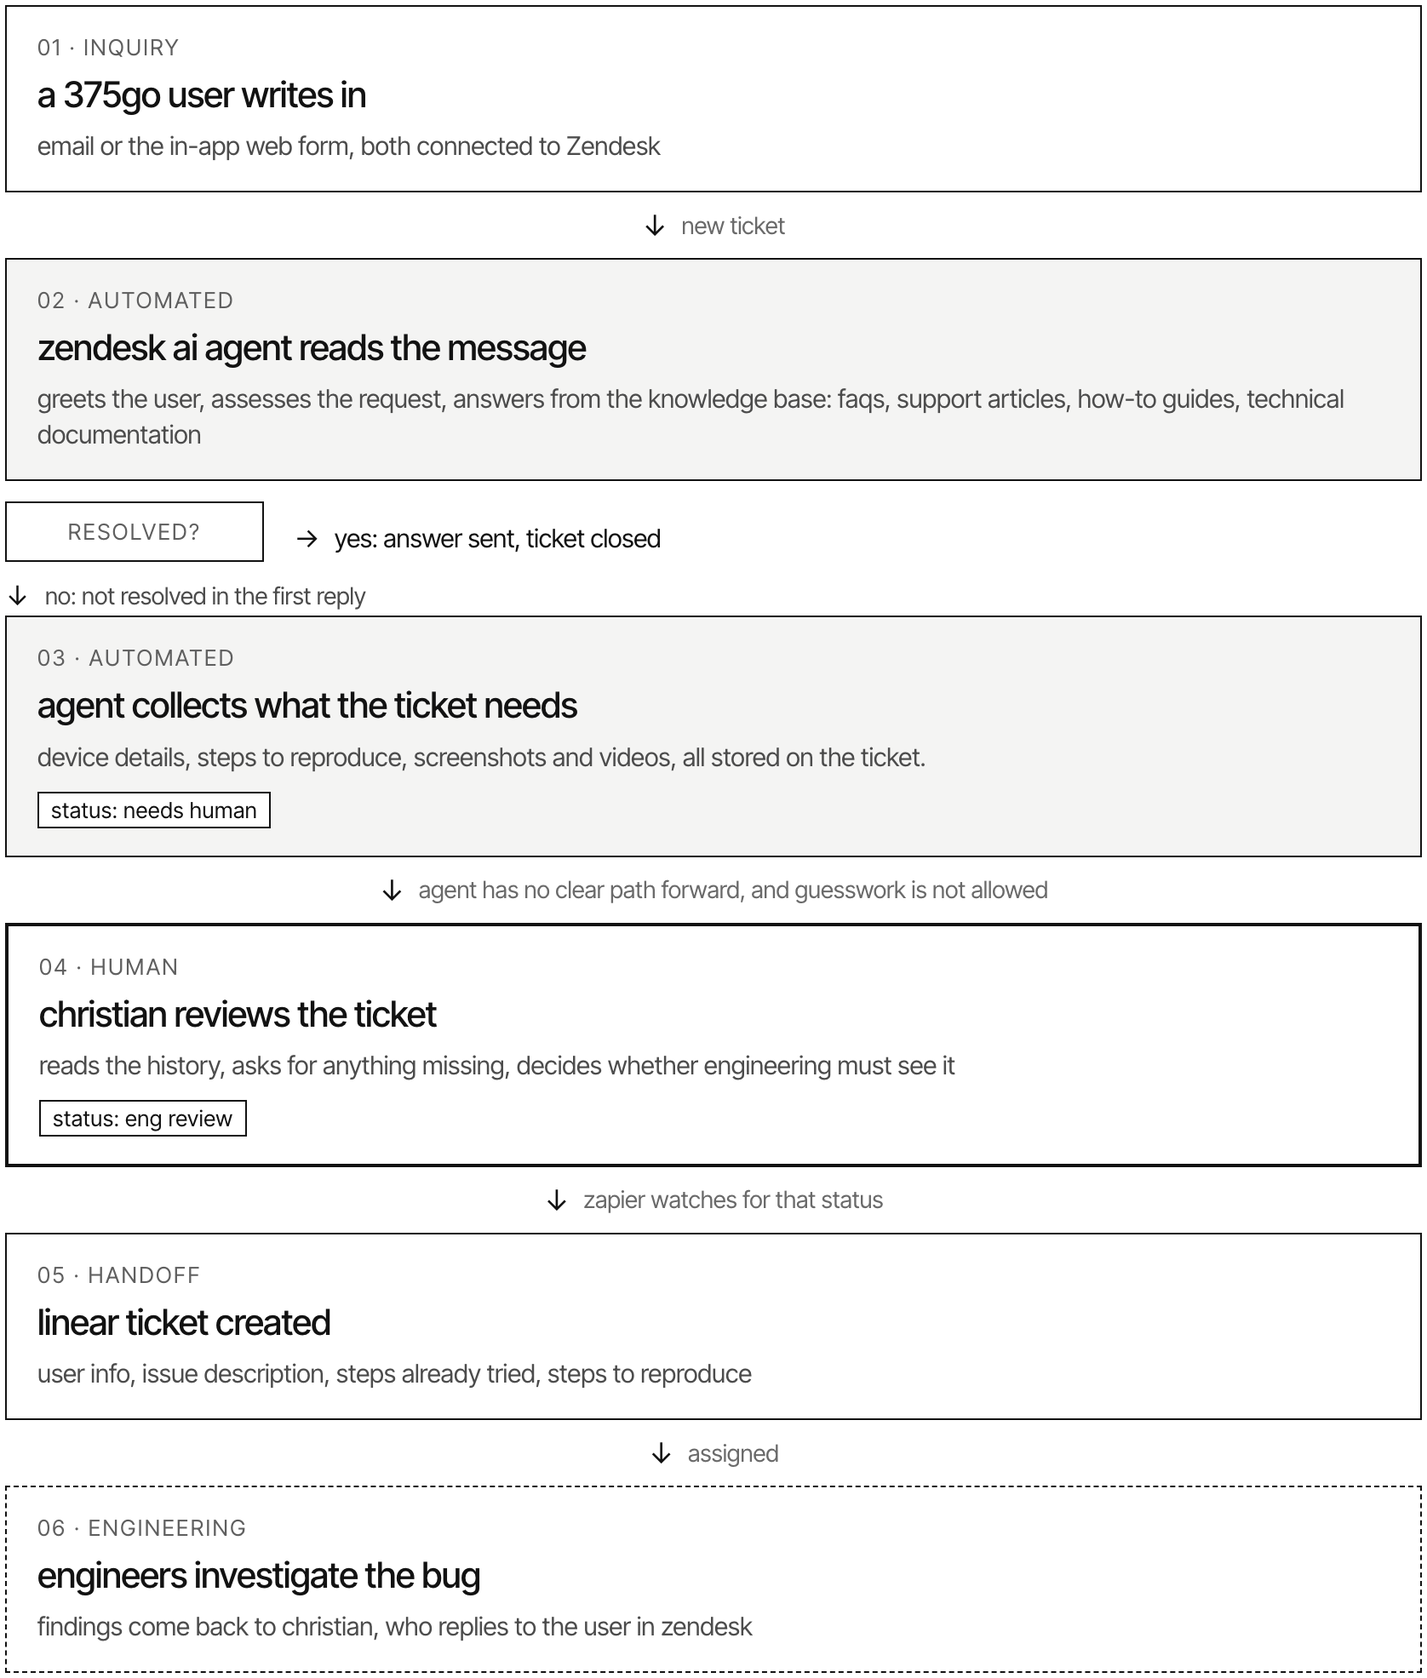
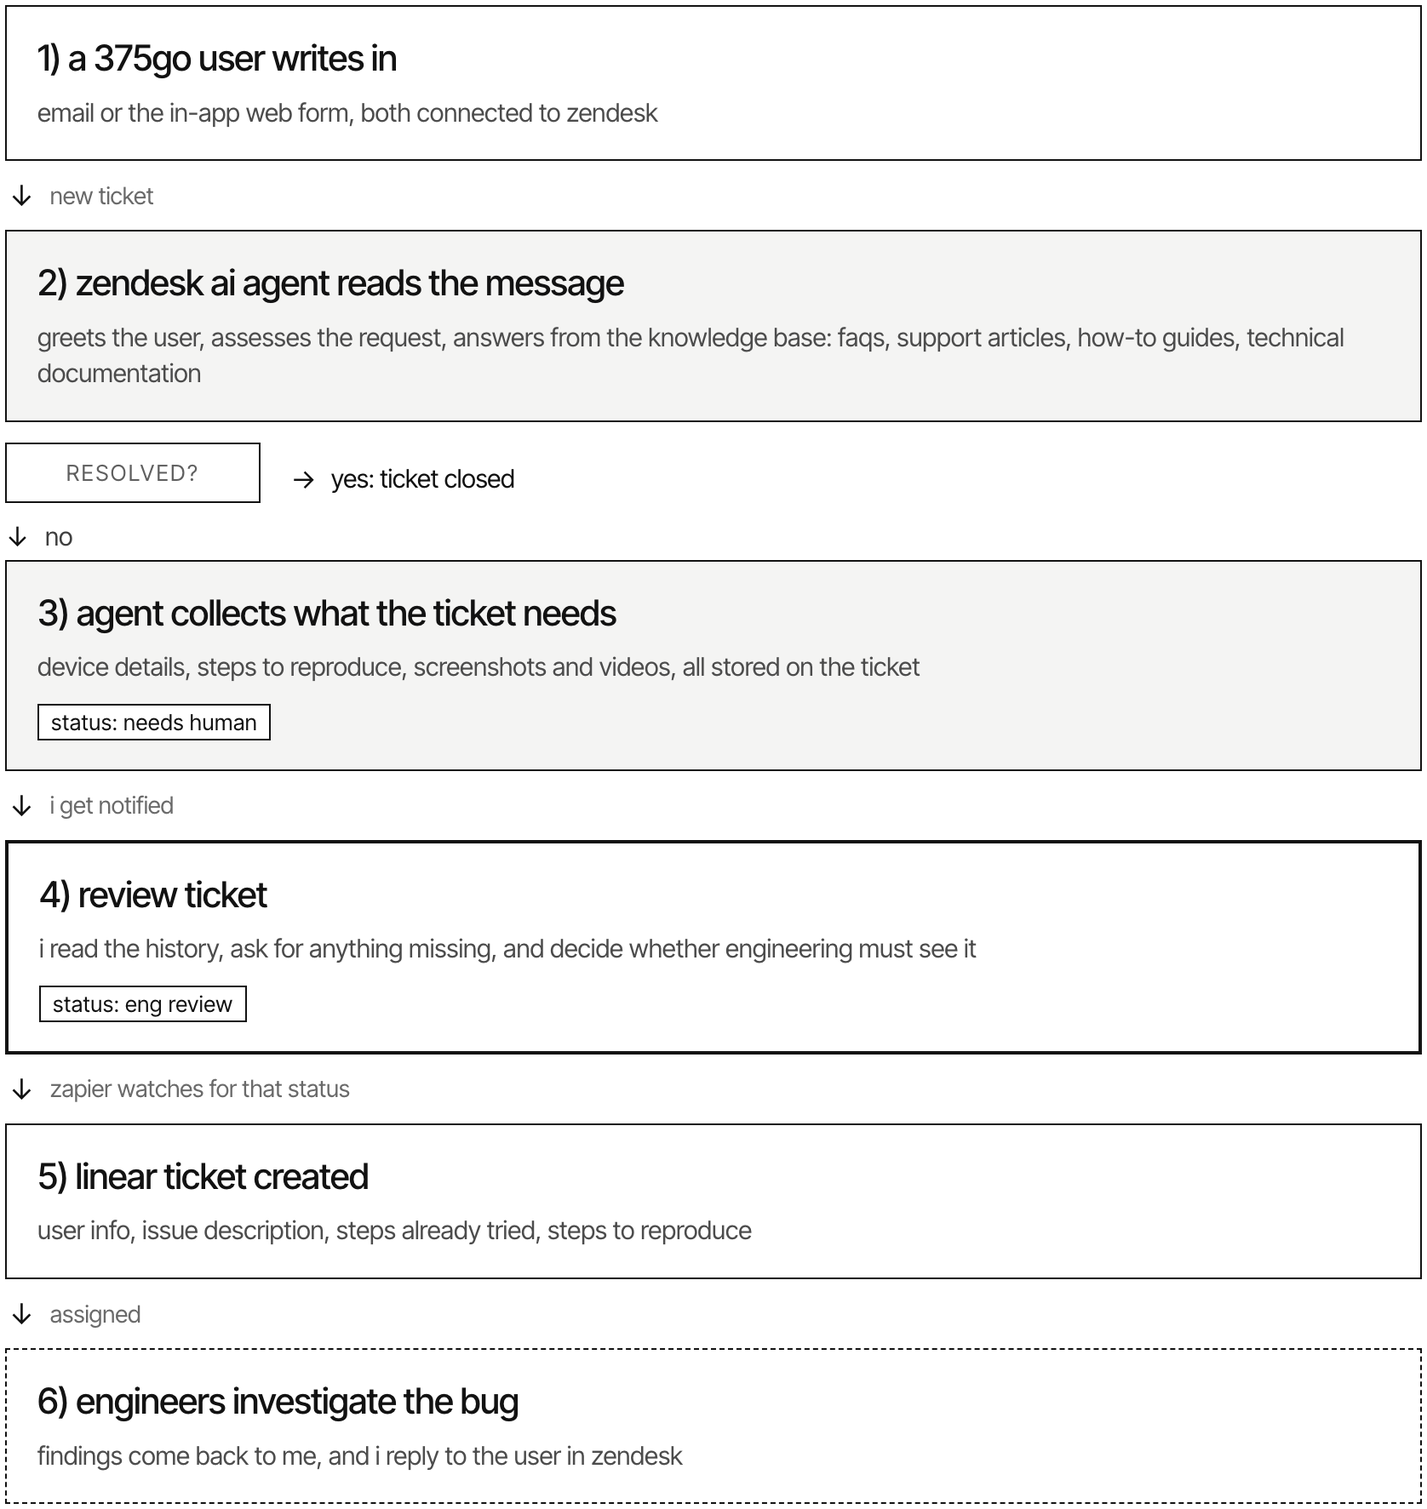
Polish pass: positive launch framing, first person throughout, leaner diagrams
Removed the diagram captions, the provenance note, the options table, the
seats diagram and the correction callout. Flow diagram renumbered 1) to 6)
with first-person handoffs. What i learned rewritten around the two limits
and the two routes I could have explored.

diff --git a/zendesk-pipeline.html b/zendesk-pipeline.html
@@ -64,34 +64,22 @@
   }
   .stat .n{font-size:clamp(1.5rem,4.6vw,2rem);font-weight:500;letter-spacing:-.04em;line-height:1}
   .stat .l{margin-top:.5em;font-size:.82rem;line-height:1.4;color:var(--ink-soft);letter-spacing:-.005em}
-  .count-note{font-size:.82rem;line-height:1.45;color:var(--ink-soft);margin:.2em 0 1.6em;max-width:612px;letter-spacing:-.005em}
   @media (max-width:620px){.stats{grid-template-columns:1fr;gap:16px}}
 
-  .callout{border-left:2px solid var(--ink);padding:.1em 0 .1em 1em;margin:0 0 1.2em;max-width:612px}
   code{font-family:ui-monospace,SFMono-Regular,Menlo,monospace;font-size:.9em;background:#f4f4f3;border:1px solid var(--rule);padding:1px 5px;border-radius:1px}
 
-  .opts{width:100%;border-collapse:collapse;margin:0 0 1.2em;font-size:.9rem}
-  .opts caption{caption-side:top;text-align:left;color:var(--ink);font-size:.95rem;letter-spacing:-.01em;padding:0 0 .8em}
-  .opts th,.opts td{text-align:left;vertical-align:top;padding:.7em .9em .7em 0;line-height:1.45;border-bottom:1px solid var(--rule)}
-  .opts thead th{font-weight:500;color:var(--ink-soft);font-size:.8rem;letter-spacing:.03em;border-bottom:1px solid var(--ink);padding-bottom:.5em}
-  .opts tbody th{font-weight:500;width:30%}
-  .opts td{color:var(--ink-soft);width:35%}
-  @media (max-width:620px){
-    .opts,.opts tbody,.opts tr,.opts th,.opts td{display:block;width:100%}
-    .opts caption{display:block;width:100%;font-size:.98rem;line-height:1.35;padding:0 0 .7em}
-    .opts thead{display:none}
-    .opts tr{padding:.7em 0;border-bottom:1px solid var(--rule)}
-    .opts th,.opts td{border:0;padding:.12em 0}
-    .opts tbody th{width:auto;font-size:.95rem}
-    .opts td{font-size:.88rem}
-  }
-
+  .limit{margin:0 0 .85em;font-size:clamp(1rem,2.6vw,1.06rem);line-height:1.55;letter-spacing:-.008em;max-width:612px;color:var(--ink-soft)}
+  .limit span{display:block;color:var(--ink);font-weight:500;letter-spacing:-.012em;margin-bottom:.1em}
+  .sub-head{margin:1.9em 0 .7em;font-size:1rem;font-weight:500;letter-spacing:-.015em;color:var(--ink)}
+  .alt{list-style:none;padding:0;margin:0 0 1em;display:grid;gap:1em;max-width:612px}
+  .alt li{font-size:clamp(.98rem,2.5vw,1.03rem);line-height:1.58;letter-spacing:-.008em;color:var(--ink-soft);padding-left:1.2em;position:relative}
+  .alt li::before{content:"-";position:absolute;left:0;color:var(--ink)}
+  .alt strong{font-weight:500;color:var(--ink)}
   .src{list-style:none;padding:0;margin:0 0 1em;display:grid;gap:.75em;max-width:612px}
   .src li{font-size:.9rem;line-height:1.4;letter-spacing:-.005em}
   .src a{border-bottom:1px solid var(--rule);transition:border-color .25s var(--ease)}
   .src a:hover{border-bottom-color:var(--ink)}
   .src span{display:block;color:var(--ink-soft);font-size:.85rem;margin-top:.15em}
-  .callout p{margin-bottom:0;color:var(--ink-soft)}
   .status{white-space:nowrap;border:1px solid var(--rule);padding:1px 6px;font-size:.94em;letter-spacing:.005em}
 
   footer{margin-top:clamp(46px,9vh,80px);padding-top:20px;border-top:1px solid var(--rule);
@@ -123,25 +111,23 @@
 
   <figure>
     <img src="/img/tools.png" width="1676" height="588" alt="Three boxes in a row: zendesk holds the knowledge base, the email and web channels and the AI agent. Zapier watches for the eng review status and pulls the ticket data. Linear receives a ticket with the user info, the issue, the steps already attempted and the steps to reproduce.">
-    <figcaption>Each tool does one job. Zendesk holds the conversation, Zapier carries the status, Linear holds the engineering queue.</figcaption>
   </figure>
 
   <div class="prose">
-    <p>The knowledge base started with what we already had: FAQs, technical documentation, support articles, and how-to guides with documented steps for common issues. No answer was added without a source document behind it.</p>
-    <p>Every inquiry got the same first pass. The agent greeted the user, assessed the message, and replied with specific steps for the user's issue. If the issue survived that first reply, the agent asked for what an engineer would eventually need: device details, steps to reproduce, screenshots, videos. All of it went onto the ticket.</p>
-    <p>A ticket changed hands on one condition: the agent had no clear path forward. Guesswork was not allowed, so the status moved to <span class="status">needs human</span> and I joined the conversation.</p>
+    <p>The knowledge base started with what we already had: FAQs, technical documentation, support articles, and how-to guides with documented steps for common issues.</p>
+    <p>The agent greeted the user, assessed the message, and replied with specific steps for the user's issue. If the issue persisted past that first reply, the agent asked for what an engineer would eventually need: device details, steps to reproduce, screenshots, videos. All of it went onto the ticket.</p>
+    <p>If the agent had no clear path forward, the status moved to <span class="status">needs human</span> and looped me into the conversation.</p>
     <p>I reviewed the ticket, asked for anything still missing, and set the status to <span class="status">eng review</span>. Zapier's ticket-updated trigger, filtered on that status, pulled the ticket data and created a Linear issue with everything engineering needed: the user and device info, a description of the issue, the steps already tried, and the steps to reproduce it.</p>
   </div>
 
   <figure>
-    <img src="/img/flow.png" width="1676" height="2000" alt="Six stage flow: a 375go user writes in, the Zendesk AI agent answers from the knowledge base, a resolved issue closes and an unresolved one gets a request for device details and reproduction steps, the status goes to needs human, christian reviews and sets eng review, Zapier creates a Linear ticket, engineers investigate.">
-    <figcaption>The full loop: from a user's first message to an engineer's findings, and back.</figcaption>
+    <img src="/img/flow.png" width="1676" height="1773" alt="Six stage flow: a 375go user writes in, the Zendesk AI agent answers from the knowledge base, a resolved issue closes, an unresolved one gets a request for device details and reproduction steps, the status goes to needs human and I get notified, I review the ticket and set eng review, Zapier creates a Linear ticket, engineers investigate.">
   </figure>
 
   <div class="prose">
     <h2>impact</h2>
     <p>In the first six months, more than 1,000 common issues were resolved by the agent with no human in the loop. Our community described support as diligent and helpful.</p>
-    <p>The pipeline saved me an estimated 20 to 25 hours of work every week. Tickets stopped piling up while I answered them one at a time.</p>
+    <p>The pipeline saved me an estimated 20 to 25 hours of work every week, and enhanced the user experience and community morale.</p>
   </div>
 
   <div class="stats">
@@ -149,55 +135,28 @@
     <div class="stat"><div class="n">20 to 25</div><div class="l">hours a week saved on ticket handling</div></div>
     <div class="stat"><div class="n">250,000+</div><div class="l">375go downloads the support pipeline had to keep up with</div></div>
   </div>
-  <p class="count-note">The 1,000 figure and the hours come from my own ticket history and my own week, not from a Zendesk report. Downloads were the public app total at the time.</p>
 
   <div class="prose">
     <h2>what i learned</h2>
-    <p>The bottleneck was me, not the automation. Two limits made me the only path between the engineers and the users, and only one of them was money.</p>
-    <p>The money limit was one paid agent seat on Suite Team, Zendesk's cheapest plan. Light agent seats, the cheaper seat type, were an add-on on that plan. They cost less than full seats, but they were still a purchase.</p>
-    <p>The product limit is the part I did not understand well enough. A light agent can read a ticket and leave a private note, and nothing more. They cannot post a public reply. So with light seats bought, an engineer could write the fix and still not send it.</p>
-  </div>
+    <p>The fun part about building a system is figuring out how to remove yourself from it, or build as little reliance on your participation as possible. We are our own bottlenecks.</p>
 
-  <figure>
-    <img src="/img/seats.png" width="1676" height="1146" alt="Top panel: end users open tickets in Zendesk, where christian holds the one paid seat, and questions and answers are relayed by hand to an engineering team with no seats. Bottom panel: a proposed relay, where engineering writes the fix with no seat of their own and one service identity calls the tickets api to post the public reply.">
-    <figcaption>What the seat limit forced, and the relay that takes the person out of the seat.</figcaption>
-  </figure>
+    <p class="limit"><span>limit 1) keep costs down</span> budget approval for one seat, and that is it.</p>
+    <p class="limit"><span>limit 2) product</span> the functionalities that would remove the barrier were paywalled.</p>
 
-  <div class="prose">
-    <p>The feature built for this already existed in Zendesk, and we could not use it. Side conversations attach an email, Slack or Teams thread to a ticket, and the people on that thread do not need agent seats. It has been in the product for years, but it needs Suite Professional or above, and we were on Suite Team. That is the first thing I would ask for.</p>
-    <p>If the plan cannot move, light agent seats plus a small relay come next. Engineering works on the ticket, not over email, and the relay turns a private note into the public reply.</p>
-    <p>The API path comes next. Zendesk creates a comment when you update a ticket, and the author defaults to the account that authenticated the call. One service identity holds a seat and calls <code>PUT /api/v2/tickets/{id}</code> with a comment object, <code>public</code> set to true. The thread updates. Two rules: use a dedicated service account instead of my login, or the audit trail reads as me, and stay inside the rate limit, which is 200 requests a minute on Suite Team and 400 on Suite Growth.</p>
-    <p>MCP is the newest path. Zendesk runs an MCP server, and Bridge lets an outside agent act inside Zendesk through scoped tools, with a person confirming each change. It is in early access and the pricing is not settled, so I would test it rather than design against it.</p>
+    <p class="sub-head">what i could've explored</p>
+    <ul class="alt">
+      <li><strong>Swap my seat for one service identity and call the tickets api.</strong> This route is still pretty limited. The api updates the ticket thread with a comment written by the service account, which is not the same as replying to the user as support. It degrades the user experience.</li>
+      <li><strong>Or a computer-use tool call with a skill</strong> that reproduces the manual work of passing messages between engineering and the user, with my account as the vehicle. Not as deterministic, and prone to random bugs, authentication expirations and other stop-the-process triggers.</li>
+    </ul>
   </div>
 
   <div class="prose">
-    <table class="opts">
-      <caption>Four ways to take me out of the middle</caption>
-      <thead>
-        <tr><th scope="col">approach</th><th scope="col">what it needs</th><th scope="col">what it changes</th></tr>
-      </thead>
-      <tbody>
-        <tr><th scope="row">side conversations</th><td>Suite Professional or above</td><td>engineers join by email or Slack, no seat. one agent still posts the reply.</td></tr>
-        <tr><th scope="row">light agent seats, note relay</th><td>add-on on Team, included on Growth</td><td>engineers read and write on the ticket. the reply still comes from one seat.</td></tr>
-        <tr><th scope="row">api relay, service identity</th><td>any suite, one agent seat, a token</td><td>no person in the loop. the seat writes the reply.</td></tr>
-        <tr><th scope="row">mcp server, zendesk bridge</th><td>early access today</td><td>an outside agent acts on scoped tools, with a person confirming.</td></tr>
-      </tbody>
-    </table>
-  </div>
-
-  <div class="prose">
-    <div class="callout">
-      <p>What I had wrong on the first draft: I called the API path unsure whether it was possible. It is documented and it works. It also cannot free a seat. The honest goal was never zero seats, it is that the seat stops needing a person behind it.</p>
-    </div>
-
     <h2>sources</h2>
     <ul class="src">
       <li><a href="https://support.zendesk.com/hc/en-us/articles/6970583409690-About-AI-agents" target="_blank" rel="noopener">zendesk: about AI agents</a><span>the agent answers from the knowledge base, not from a model's memory</span></li>
-      <li><a href="https://support.zendesk.com/hc/en-us/articles/6510562911770-Managing-light-agent-seats-in-your-Zendesk-account" target="_blank" rel="noopener">zendesk: light agent seats</a><span>plan limits, and the private-note permission</span></li>
       <li><a href="https://support.zendesk.com/hc/en-us/articles/4408844206746-About-side-conversations" target="_blank" rel="noopener">zendesk: about side conversations</a><span>channels, and the Professional plan requirement</span></li>
       <li><a href="https://developer.zendesk.com/api-reference/ticketing/tickets/ticket_comments/" target="_blank" rel="noopener">zendesk api: ticket comments</a><span>comments are created by updating the ticket, author defaults to the authenticated account</span></li>
       <li><a href="https://developer.zendesk.com/api-reference/introduction/rate-limits/" target="_blank" rel="noopener">zendesk api: rate limits</a><span>200 requests per minute on Team, 400 on Growth and Professional</span></li>
-      <li><a href="https://support.zendesk.com/hc/en-us/articles/11400026079130-Connecting-external-AI-agents-to-the-Zendesk-MCP-server-or-Zendesk-AI-agents-EAP" target="_blank" rel="noopener">zendesk: bridge and external agents</a><span>MCP server access for outside agents, early access</span></li>
     </ul>
   </div>
 

diff --git a/diagrams/flow.html b/diagrams/flow.html
@@ -3,85 +3,76 @@
 <style>
   @font-face{font-family:'Inter Tight';src:url('../fonts/inter-tight-regular.woff2') format('woff2');font-weight:400}
   @font-face{font-family:'Inter Tight';src:url('../fonts/inter-tight-medium.woff2') format('woff2');font-weight:500}
-  @font-face{font-family:'Inter Tight';src:url('../fonts/inter-tight-semibold.woff2') format('woff2');font-weight:600}
   *{box-sizing:border-box;margin:0;padding:0}
   html,body{background:#fff}
   body{font-family:'Inter Tight',Helvetica,Arial,sans-serif;color:#121212;width:900px;padding:34px 34px 30px;-webkit-font-smoothing:antialiased}
 
-  .row{display:flex;align-items:stretch;gap:0}
-  .col{display:flex;flex-direction:column;gap:0}
+  .col{display:flex;flex-direction:column}
 
-  .node{border:1px solid #121212;padding:16px 18px;background:#fff}
+  .node{border:1px solid #121212;padding:17px 18px;background:#fff}
   .node.auto{background:#f4f4f3}
   .node.human{border-width:2px}
-  .node.final{border-style:dashed;background:#fff}
-  .k{font-size:13px;letter-spacing:.09em;text-transform:uppercase;color:#5f5f5f;margin-bottom:7px}
-  .t{font-size:21px;line-height:1.22;letter-spacing:-.02em;font-weight:500}
-  .s{font-size:15px;line-height:1.4;color:#4c4c4c;margin-top:7px;letter-spacing:-.005em}
-  .status{display:inline-block;margin-top:10px;font-size:13px;letter-spacing:.02em;border:1px solid #121212;padding:2px 7px;background:#fff}
+  .node.final{border-style:dashed}
+  .t{font-size:21px;line-height:1.25;letter-spacing:-.02em;font-weight:500}
+  .s{font-size:15px;line-height:1.42;color:#4c4c4c;margin-top:8px;letter-spacing:-.005em}
+  .status{display:inline-block;margin-top:11px;font-size:13px;letter-spacing:.02em;border:1px solid #121212;padding:2px 7px;background:#fff}
 
-  .link{display:flex;align-items:center;justify-content:center;gap:8px;font-size:14px;color:#6a6a6a;padding:9px 0;letter-spacing:-.005em}
+  .link{display:flex;align-items:center;gap:9px;font-size:14px;color:#6a6a6a;padding:10px 2px;letter-spacing:-.005em}
   .link .ar{font-size:17px;color:#121212}
 
-  .dec{display:grid;grid-template-columns:152px 1fr;gap:0 18px;align-items:start;margin-top:12px}
+  .dec{display:grid;grid-template-columns:150px 1fr;gap:0 18px;align-items:start;margin:12px 0 2px}
   .dbox{border:1px solid #121212;padding:9px 10px;font-size:13px;letter-spacing:.09em;text-transform:uppercase;color:#5f5f5f;text-align:center}
   .dyes{display:flex;align-items:center;gap:9px;font-size:15px;line-height:1.3;letter-spacing:-.01em;padding-top:11px}
-  .dno{grid-column:1 / -1;display:flex;align-items:center;gap:9px;font-size:14px;color:#4c4c4c;padding:10px 0 2px;letter-spacing:-.005em}
+  .dno{grid-column:1 / -1;display:flex;align-items:center;gap:9px;font-size:15px;color:#3f3f3f;padding:10px 0 2px;letter-spacing:-.005em}
   .dec .ar{font-size:16px;color:#121212}
 </style></head>
 <body>
   <div class="col">
 
     <div class="node">
-      <div class="k">01 · inquiry</div>
-      <div class="t">a 375go user writes in</div>
-      <div class="s">email or the in-app web form, both connected to Zendesk</div>
+      <div class="t">1) a 375go user writes in</div>
+      <div class="s">email or the in-app web form, both connected to zendesk</div>
     </div>
 
     <div class="link"><span class="ar">↓</span> new ticket</div>
 
     <div class="node auto">
-      <div class="k">02 · automated</div>
-      <div class="t">zendesk ai agent reads the message</div>
+      <div class="t">2) zendesk ai agent reads the message</div>
       <div class="s">greets the user, assesses the request, answers from the knowledge base: faqs, support articles, how-to guides, technical documentation</div>
     </div>
 
     <div class="dec">
       <div class="dbox">resolved?</div>
-      <div class="dyes"><span class="ar">→</span><span>yes: answer sent, ticket closed</span></div>
-      <div class="dno"><span class="ar">↓</span><span>no: not resolved in the first reply</span></div>
+      <div class="dyes"><span class="ar">→</span><span>yes: ticket closed</span></div>
+      <div class="dno"><span class="ar">↓</span><span>no</span></div>
     </div>
 
     <div class="node auto">
-      <div class="k">03 · automated</div>
-      <div class="t">agent collects what the ticket needs</div>
-      <div class="s">device details, steps to reproduce, screenshots and videos, all stored on the ticket.</div>
+      <div class="t">3) agent collects what the ticket needs</div>
+      <div class="s">device details, steps to reproduce, screenshots and videos, all stored on the ticket</div>
       <div class="status">status: needs human</div>
     </div>
 
-    <div class="link"><span class="ar">↓</span> agent has no clear path forward, and guesswork is not allowed</div>
+    <div class="link"><span class="ar">↓</span> i get notified</div>
 
     <div class="node human">
-      <div class="k">04 · human</div>
-      <div class="t">christian reviews the ticket</div>
-      <div class="s">reads the history, asks for anything missing, decides whether engineering must see it</div>
+      <div class="t">4) review ticket</div>
+      <div class="s">i read the history, ask for anything missing, and decide whether engineering must see it</div>
       <div class="status">status: eng review</div>
     </div>
 
     <div class="link"><span class="ar">↓</span> zapier watches for that status</div>
 
     <div class="node">
-      <div class="k">05 · handoff</div>
-      <div class="t">linear ticket created</div>
+      <div class="t">5) linear ticket created</div>
       <div class="s">user info, issue description, steps already tried, steps to reproduce</div>
     </div>
 
     <div class="link"><span class="ar">↓</span> assigned</div>
 
     <div class="node final">
-      <div class="k">06 · engineering</div>
-      <div class="t">engineers investigate the bug</div>
-      <div class="s">findings come back to christian, who replies to the user in zendesk</div>
+      <div class="t">6) engineers investigate the bug</div>
+      <div class="s">findings come back to me, and i reply to the user in zendesk</div>
     </div>
 
   </div>
